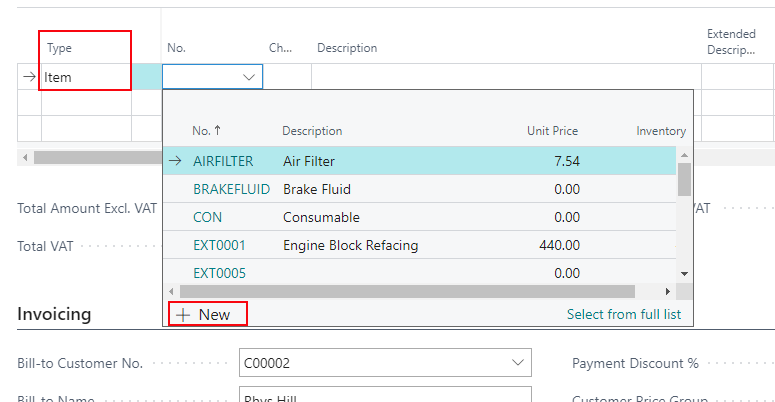
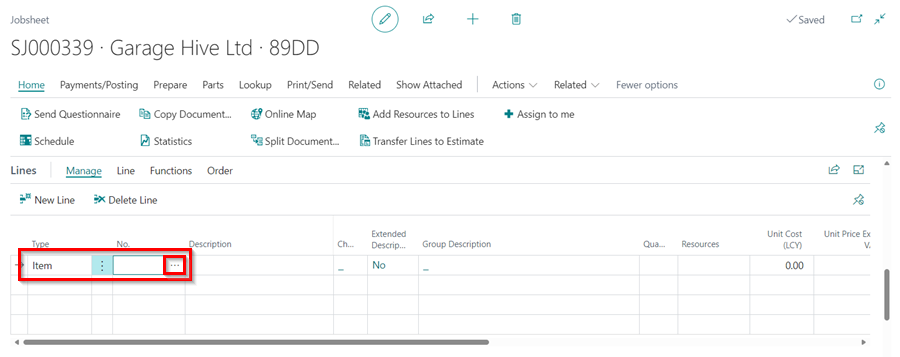
external service

diff --git a/docs/garagehive-create-external-service.md b/docs/garagehive-create-external-service.md
@@ -9,17 +9,24 @@ title: Create an External Service
 
 If you are receiving a service from an external service provider and you want the charge to be passed on to your customer, you can charge this out by creating an **External Service**:
 
-1. From the jobsheet lines under column **Type**, select **Item** from the dropdown menu.
+1. From the Jobsheet lines under column **Type**, select **Item** from the dropdown menu.
 2. Click on the Tab button to move to the next column, **No.**. 
-3. Click on the arrow pointing down and select **+New** from the pop-up window.
+3. Click on the click on the ellipsis (...) at the end.
 
    ![](media/garagehive-external-services1.png)
 
-4. A list of several templates for new items will appear; scroll to **External Services** template and click on it. 
-5. A new item card is created with **Item Category Code** as **External**. You can change the item **No.** and add the description of the external service. 
-6. Click OK to create the external service item card and enter the quantity and value you are charging.
+4. Select **+New** from the pop-up window.
 
-![](media/garagehive-external-services2.gif)
+   ![](media/garagehive-external-services2.png)
+
+5. A list of several templates for new items will appear; scroll to **External Services** template and click on it.
+
+   ![](media/garagehive-external-services3.png)
+
+6. A new item card is created with **Item Category Code** as **External**. You can change the item **No.** and add the description of the external service. 
+7. Close the external service item card and enter the quantity and value you are charging in the Jobsheet.
+
+   ![](media/garagehive-external-services4.png)
 
 <br>
 

diff --git a/docs/garagehive-user-management.md b/docs/garagehive-user-management.md
@@ -136,7 +136,7 @@ To reset a garage hive user's password:
 
 3. Click on **Reset Password** action, and then **OK**.
 
-   ![](media/garagehive-user-management12.gif)
+   ![](media/garagehive-user-management12.png)
 
 4. The user will receive an email with the new password and a link to login. When the user logs in, they will be prompted to change the password to a new password. The **Old Password** should be the password received via email, and the **New Password** should be the user coming up with it, and **Confirm Password**.
 

diff --git a/docs/garagehive-gh-entitlements.md b/docs/garagehive-gh-entitlements.md
@@ -108,10 +108,7 @@ If you have assigned more GH Entitlements to users than are available, you will 
 5. This will resolve the issue of over-assigning GH entitlements.
 
 
-
-   
-
-
+[Go back to top](#top)
 
 <br>
 
